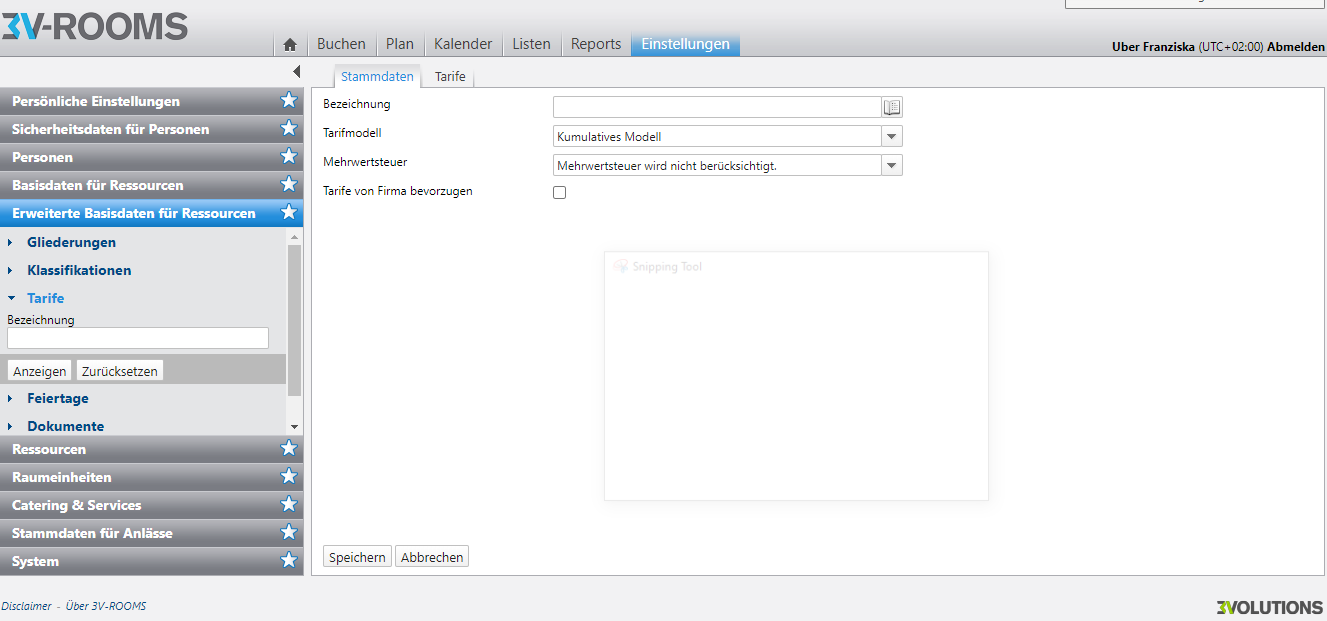
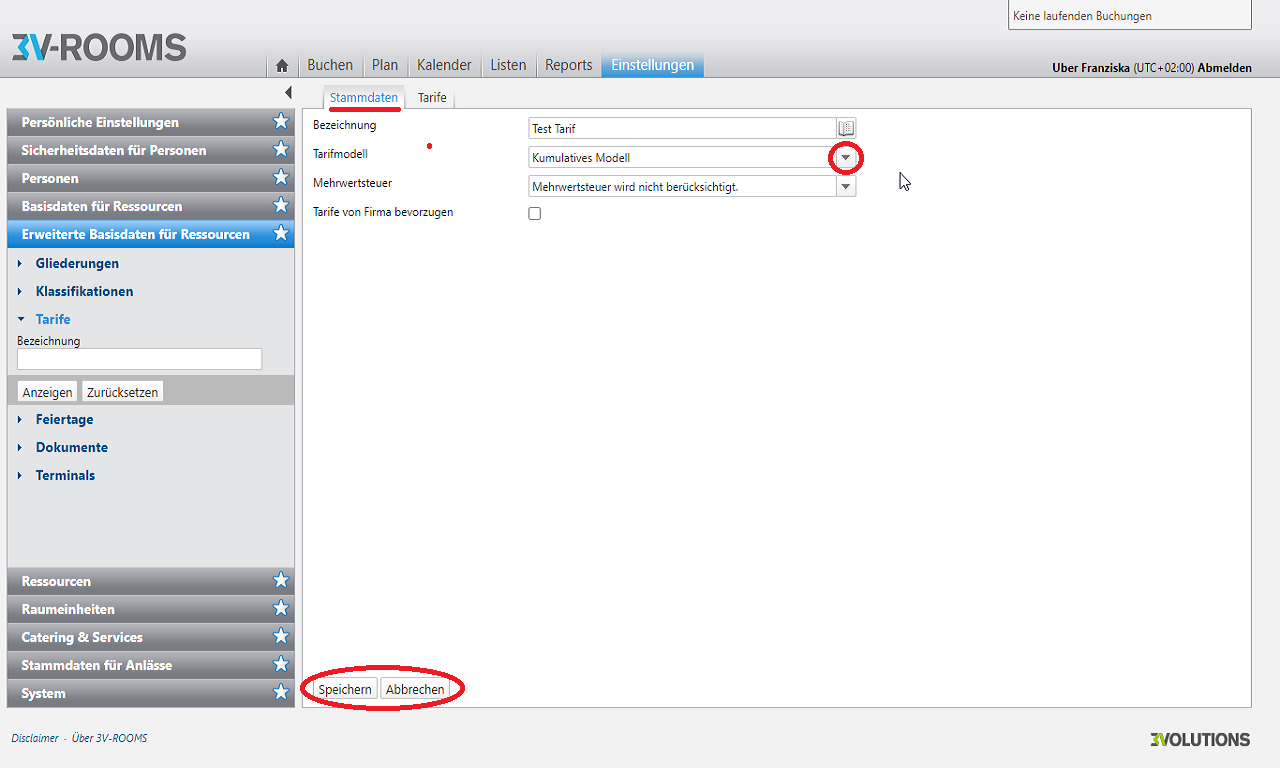
Tarife und Klassifikationen Screenshots neu und mit UC abgeglichen

Changed region(s): [[0.0, 0.0, 1.0, 1.0], [0.7812, 0.0, 0.9062, 0.0306]]

diff --git a/content/de/Einstellungen/ErweiterteBasisdatenfuerRessourcen/Tarife/_index.md b/content/de/Einstellungen/ErweiterteBasisdatenfuerRessourcen/Tarife/_index.md
@@ -3,19 +3,34 @@ title: "Tarife"
 linkTitle: "Tarife"
 weight: 3
 description: >
-  Im Bereich Tarife sehen und erstellen Sie Tarifkategorie-Listen. Ebenfalls können Sie neue Tarife erstellen und bearbeiten.   
+  Im Bereich Tarife sehen und erstellen Sie Tarifkategorie-Listen. Ebenfalls können Sie neue Tarife erstellen und bearbeiten. Sie verwalten Tarife (Kosten und Annullationsgebühren) zentral und ordnen sie einer Ressource zu.  
  
 
 
 ---
+## Ansicht: Tarife 
+Im linken Sidepanel finden Sie die Filterkriterien. Hier können Sie nach der Bezeichnung eines Tarifs suchen. Klicken Sie anschließend auf den Button "Anzeigen". (Abbildung) 
+
+Im rechten Feld sehen Sie die Tarifkategorie-Liste. Sollten keine Tarife eingetragen sein ist diese leer. Tragen Sie neue ein, löschen oder bearbeiten Sie bestehende. 
+
+{{< imgproc Tarife_Ansicht Resize "1280x" >}}
+Abbildung ta: Erstellen von Tarifkategorien
+{{< /imgproc >}}
+
+Generell können Sie zwischen drei Tarifmodellen wählen. Diese werden weiter unten beschrieben: 
+1. Pauschales Modell
+2. Kumultatives Modell 
+3. Zeitabhängiges Modell
+
 ## Tarif neu erstellen
-Tarifkategorien erstellen Sie über den untenstehenden Button "Neu" (Abbildung t). In dem Feld, welches sich öffnet legen Sie die Stammdaten sowie die Tarifoption für die jeweiliege Tarifkategorie fest (Abbildung ti).
+Tarifkategorien erstellen Sie über den untenstehenden Button "Neu" (Abbildung ta). In dem Feld, welches sich öffnet legen Sie die Stammdaten sowie die Tarifoption für die jeweiliege Tarifkategorie fest (Abbildung ti).
 
 Die geänderten oder neu eingetragenen Daten speichern Sie über den untenstehenden Button "Speichern" (Abbildung ti).
 
+Neu eingetragene Tarife sehen Sie anschließend in Liste (Abbildung tb). Sie können von hier aus den Tarif bearbeiten über das Stift Icon. Mit Aktivierung der Checkbox können Sie den tarif löschen. 
 
-{{< imgproc Tarife_erstellen Resize "1280x" >}}
-Abbildung t: Erstellen von Tarifkategorien
+{{< imgproc Tarife_hinzugefügt_in_Liste Resize "1280x" >}}
+Abbildung tb: Erstellen von Tarifkategorien
 {{< /imgproc >}}
 
 
@@ -34,27 +49,116 @@ Abbildung ti: Stammdaten des Tarifkategorien bearbeiten
 {{< /imgproc >}}
 
 ### Tarif der Tarifkategorie bearbeiten
-Die folgenden Daten legen Sie bei den Tarifen der Tarifkategorie über den untenstehenden Button "Neu" fest (Abbildung tv):
+Wenn Sie eine neue Tarifkategorie erstellen, sehen Sie in der Liste noch keine Tarife. Fügen Sie neue Tarifkategorien über den untenstehenden Button "Neu". (Abbildung tc)
+
+{{< imgproc Tarife_neue_Tarife_hinzufügen Resize "1280x" >}}
+Abbildung tc: Eine neue Tarifkategorie hinzufügen
+{{< /imgproc >}}
+
+Es öffnet sich ein Fenster, in welchem Sie die Daten der Tarife festlegen. 
+
+Die folgenden Daten legen Sie bei den Tarifen der Tarifkategorie fest (Abbildung tv):
 
 | Feld         | Funktion         | 
 | ------------- |-------------  | 
-| Bezeichnung        |  | 
-| Art   |     |  
-| Gültigkeit  |     |  
-| Aktivitätsstatus für die einzelnen Wochentage  |     |  
-| Dauer in Minuten  |     | 
-| Kosten Intern  |     | 
-| Kosten Extern  |     | 
-| Kosten Extern minimal  |     | 
-| Kosten Extern maximal  |     | 
-| Kosten Intern minimal  |     | 
-| Kosten Intern maximal  |     | 
+| Bezeichnung        | Geben Sie eine Bezeichnung für den Tarif ein (in der Sprache des angmeldeten Benutzers)  | 
+| Art   |  Wählen Sie mittels Drop-Down das Tarifmodell aus. Es stehen die Werte "Buchung" und "Annullation" zur Verfügung. Es wird also definiert ob es sich um einen Annullationspauschale handelt oder um eine Buchungspauschale. Bei Annullation sind die Werte Zeitrange und "Aktiviert am" nicht auszufüllen   |  
+| Annulation in %  | wird nur angezeigt, wenn in der Dropdown „Tarif Art“ eine Annullation selektiert wurde Validierung auf Ganzzahlen (nummerischer Wert).|  
+| Gültigkeit  | Datumpicker, über welchen die Laufzeit eines Tarifs selektiert wird.| 
+| Aktivitätsstatus für die einzelnen Wochentage  | Alle Wochentage werden in Form von Checkboxen und Zeitrange Textboxen aufgelistet. Durch Selektion kann definiert werden, dass an diesem Tag der Tarif gültig ist und zu welcher Zeit am Tag er gültig ist. |  
+| Dauer in Minuten  | Definiert das Kostenintervall - für welche Zeiteinheit wird der Tarif berechnet. Beispiel: wird 60 angegeben wird auf Stundenbasis abgerechnet. Bei Annullationen bezieht sich die Dauer in Minuten auf die Annullation vor Reservationstart. Erläuterung an einem Beispiel: 0 = Annullation zur Laufzeit der Reservation = 100% der Reservationskosten (100=Tarif, %-Checkbox selektiert) 60 = Annullation zwischen 0 und 60 Minuten vor Reservationsstart = 50% der Reservationskosten (50=Tarif, %-Checkbox selektiert) 1440 = Annullation zwischen 60 Minuten und einem Tag vor Reservationsstart = fix 100.00 Franken (100 = Tarif, %-Checkbox nicht selektiert)  | 
+| Firma  | Optionales Feld: Bleibt dieser Wert leer ist der Tarif für alle gültig. Wird auf dem Tarif eine Firma selektiert, ist dies ein Spezialtarif für genau diese Firma. Mit diesem Mechanismen werden die Fixpreise definiert. | 
+| Währung  | alle aktivierten Währungen. Standardwert = Währung der im Profil des angemeldeten gewählten Kultur.Die Anzahl der aktivierten Währungen ist abhängig von der Anzahl der zur Verfügung gestellten Kulturen.| 
+| Kosten Intern  | Tarif, welcher für alle Firmen ohne selektierte "Extern" Checkbox gültig ist Validierung auf nummerischer Wert.| 
+| Kosten Extern  | Tarif, welcher für alle Firmen MIT selektierte "Extern" Checkbox gültig ist Validierung auf nummerischer Wert. | 
+| Kosten Extern minimal  | Wenn Kumulatives Preismodell gewählt auf Tarifkategorie, erscheint das Textfeld für die minimalen Kosten.  | 
+| Kosten Extern maximal  | Wenn Kumulatives Preismodell gewählt auf Tarifkategorie, erscheint das Textfeld für die maximalen Kosten. | 
+| Kosten Intern minimal  | Wenn Kumulatives Preismodell gewählt auf Tarifkategorie, erscheint das Textfeld für die minimalen Kosten.   | 
+| Kosten Intern maximal  | Wenn Kumulatives Preismodell gewählt auf Tarifkategorie, erscheint das Textfeld für die maximalen Kosten. | 
+
 
 {{< imgproc Tarife_anlegen Resize "1280x" >}}
 Abbildung tv: Tarifeinzelheiten und Gültigkeit festlegen
 {{< /imgproc >}}
 
-## Tarife durchsuchen
-Im linken Menü finden Sie unter der Kategorie "Tarife" eine Suchfunktion mit dessen Hilfe Sie nach einem Tarif suchen können (Abbildung t). Sie können hierbei nach folgenden Kriterien suchen: 
-* Bezeichnung
+Speichern Sie die Tarifkategorie über den Button "Speichern". Die Liste aktualisiert sich automatisch und Sie sehen die neue Tarifkategorie (Abbildung tb).
 
+{{< imgproc Tarife_neu_angelegt_in_Liste Resize "1280x" >}}
+Abbildung tb: Neu angelegte Tarifkategorie in der Liste
+{{< /imgproc >}}
+
+## Erklärung Tarifmodelle mit Beispielen
+
+1. **Pauschales Modell**:
+Es wird der kleinst grössere Minuten-Tarif direkt verwendet.
+Beispiele:
+* 1: Tarife mit 1, 2, 4, 8 Stunden Dauer. Die Buchung beträgt 30 Minuten. -> Dann wird der Tarif mit einer "1 Stunde" Dauer genommen.
+* 2: Tarife mit 1, 2, 4, 8 Stunden Dauer. Die Buchung beträgt 3 Stunden. -> Dann wird der Tarif mit "4 Stunden" Dauer genommen.
+* 3: Tarife mit 1, 2, 4, 8 Stunden Dauer. Die Buchung beträgt 10 Stunden. -> Dann wird der Tarif mit "8 Stunden" Dauer genommen.
+
+2. **Kumulatives Modell**:
+Es wird der kleinst grössere Minuten-Tarif zusammenaddiert. Es werden dabei falls gesetzt minimale und maximale Werte berücksichtigt. Dies kann bedeuten: Pro Stunde 10 Franken, aber mindestens 50 Franken oder maximal 100 Franken.
+
+Beispiele: 
+
+* 1: Tarife mit 1, 2, 4, 8 Stunden. Reservation ist 1 Stunde. -> Dann wird der Tarif mit 1 Stunde Dauer genommen.
+* 2: Tarife mit 1, 2, 4, 8 Stunden. Reservation ist 2 Stunden. -> Dann wird der Tarif mit 2 Stunde Dauer genommen.
+* 3: Tarife mit 1, 2, 4, 8 Stunden. Reservation ist 6,5 Stunden. -> Dann wird der Tarif mit 4 Stunden und 2 Stunden genommen und dann der Tarif mit 1 Stunde am Schluss als kleinster "Ueberschuss" dazugezaehlt.
+
+3. **Zeitabhängig**:
+Beim zeitabhängigen Modell liegt ebenfalls die kumulative Berechnung zu Grunde. Bei diesen Modell darf für eine Firma immer nur ein Tarif zum entsprechenden Zeitpunkt gültig sein. d.h:
+
+Morgentarif 8.00 – 12.00Uhr, Nachmittagstarif 12.00 – 18.00Uhr für Firma A à funktioniert
+Morgentarif 8.00 – 12.30Uhr, Nachmittagstarif 12.00 – 18.00Uhr für Firma B à funktioniert NICHT
+Angebrochene Minuten werden IMMER voll verrechnet, nicht definierte Zeiten gelten als gratis und der Zeitintervall (55min) wird immer ab dem nächst gültigen Tarif gerechnet. Ausgangslage: Morgentarif 8.00 – 12.00Uhr (pro 55Minuten – CHF 30.-), Nachmittagstarif 12.00 – 18.00Uhr (pro 55Minuten – CHF 44.-)
+
+Beispiel: Firma bucht um 11.55Uhr für insgesamt zwei Intervalle (2x 55min) à Die Kosten betragen: CHF 74.---
+Tagespauschalen werden mit den Minimal/Maximalwerten pro Tarif gesetzt. Ausgangslage: Tagestarif 8.00 – 18.00Uhr für Firma A (Kosten minimal/maximal CHF 200.-)
+
+Beispiel: Firma bucht um 9.00Uhr für zwei Intervalle à Die Kosten betragen CHF 200.00
+
+### Tarife Berechnung im Buchungsprozess
+
+* Ist für eine Firma/OE ein Spezialtarif definiert wird auf dieser Tarif Basis berechnet
+* Sind zum einem Zeitpunkt der Reservation mehrere aktive Tarife vorhanden wird der neuste (Tarif mit dem aktuellsten Gültigkeitsdatum) verwendet.
+* Ist bei einer Ressource keine Tarifkategorie hinterlegt, wird kein Preis berechnet.
+* Ist zum Zeitpunkt der Reservation kein aktiver Tarif vorhanden werden keine Kosten verrechnet werden
+
+
+### Stornierungsregeln und Beispiele
+
+1. **Pauschalen** 
+
+Wird eine Buchung mit Pauschalen Stornierungskosten annulliert, werden alle Pauschalen (Raum, Equipment, Dienstleistungen) zusammengezählt und als Stornierungskosten gespeichert.
+
+Beispiel (hinterlegte Stornierungskosten in CHF):
+Raum: 50 CH
+Beamer: 5 CHF
+Flipchart: 5 CHF
+Pinwand: 5 CHF
+
+Umstuhlung: 7 CHF
+
+Angebotszone: 5 CHF (Sind Angebot aus verschiedenen Angebotszonen gebucht worden, werden die Angebotszonen Stornierungspauschalen zusammengezählt – aber immer nur 1x kalkuliert – egal wieviele Angebote einer Zone effektiv gebucht worden sind)
+4x Kaffee zu 2 CHF: 8 CHF
+4x Mineral zu 0 CHF: 0 CHF
+8x Sandwiches zu 3 CHF: 24 CHF
+= 109 CHF Stornierungsgebühr bei Stornierung des Raumes (Hauptbuchung)
+
+2. **Prozentualen**
+
+Wird eine Buchung mit prozentualen Stornierungskosten (nur auf Ressourcen möglich) annulliert werden die Prozentualen auf den jeweiligen Bruttokosten (hinterlegten Tarife) berechnet. Zuschläge und Rabatte werden ignoriert.
+
+Beispiel:
+Raum: Kosten= CHF100, Stornierung 50%
+Beamer: Kosten=CHF20, Stornierung 100% 
+Flipchart: Kosten=CHF5, Stornierung 0% 
+Pinwand: Kosten=CHF10, Stornierung Pauschal CHF5
+
+Umstuhlung: 7 CHF
+
+Angebotszone: 5 CHF (Sind Angebot aus verschiedenen Angebotszonen gebucht worden, werden die Angebotszonen Stornierungspauschalen zusammengezählt – aber immer nur 1x kallkuliert – egal wieviele Angebote einer Zone effektiv gebucht worden sind)
+4x Kaffee zu 2 CHF: 8 CHF
+4x Mineral zu 0 CHF: 0 CHF
+8x Sandwiches zu 3 CHF: 24 CHF
+= 119 CHF Stornierungsgebühr bei Stornierung des Raumes (Hauptbuchung)

diff --git a/content/de/Einstellungen/ErweiterteBasisdatenfuerRessourcen/Klassifikationen/_index.md b/content/de/Einstellungen/ErweiterteBasisdatenfuerRessourcen/Klassifikationen/_index.md
@@ -8,45 +8,117 @@ description: >
 
 
 ---
+## Ansicht: Klassifikationstypen 
+Im linken Bereich sehen Sie das Sidepanel mit Filterfunktionen. Klicken Sie auf den Button "Anzeigen" werden Ihnen alle Klassifikationen angezeigt. 
 
-## Klassifikationstypen erstellen und bearbeiten 
-Klassifikationstypen erstellen Sie über den untenstehenden Button "Klassifikationstyp erstellen" (Abbildung k).In dem Feld, welches sich öffnet legen Sie die Stammdaten, Ressourcen und Gruppen für den jeweiligen Klassifikationstyp fest (Abbildung ki).
+Im rechten Feld sehen Sie die Klassifikationstypliste. Die Baumstruktur ist zweistufig. Je nachdem an welche Stelle im Baum navigiert wird, kann auf den jeweiligen Bereichen mehr oder weniger Aktionen durchführen (auch auf Grund der Anzahl der angezeigten Icons ersichtlich). (Abbildung k)
 
-Die geänderten oder neu eingetragenen Daten speichern Sie über den untenstehenden Button "Speichern" (Abbildung gi).
+Es wird zwischen zwei Strukturen unterschieden:
+1. Übergeordneter Klassifikationstyp 
+2. Untergeordnete Buchungsklassifikation
 
-{{< imgproc Klassifikationen_erstellen Resize "1280x" >}}
-Abbildung k: Erstellen eines neuen Klassifikationstypen
+{{< imgproc Klassifikationen_Ansicht Resize "1280x" >}}
+Abbildung k: Ansicht im Reiter Klassifikationen
 {{< /imgproc >}}
 
-{{< imgproc Klassifikationen_Stammdaten_bearbeiten Resize "1280x" >}}
-Abbildung ki: Stammdaten des Klassifikationstypen bearbeiten
+### Bedeutung Icons 
+Klicken Sie auf den Namen eines Klassifikationstypen im Baum, erscheinen neben dem Namen eine Toolleiste mit Symbolen. Mithilfe dieser Symbole können Sie folgende Aktionen durchführen (Abbildung k): 
+
+* Plus Zeichen: neue untergeordnete Buchungsklassifikation erstellen. Das Plus Zeichen sehen Sie nur bei bei den übergeordneten Klassifikationstypen
+* Auge: Sehen Sie sich die erfasstem Stammdaten und die Historie der Klassifikationen an (Abbildung ka) 
+* Stift: Bearbeiten Sie eine bestehende Klassifikation
+* Papierkorb: Löschen Sie eine Klassifikation
+
+{{< imgproc Klassifikationen_Daten_ansehen Resize "1280x" >}}
+Abbildung ka: Ansehen der gespeicherten Daten einer Klassifikation über das Icon "Auge"
+{{< /imgproc >}}
+
+**Hinweis zum Löschen einer Klassifikation**: 
+Klicken Sie auf Löschen erscheint ein Warnhinweis. Bei erfolgreicher Löschung erscheint Bestätigungsmeldung im Actionpanel oben rechts. Die Baumstruktur aktualisiert sich automatisch.
+Löschregeln:
+Das Löschen eines Klassikfikationstyps ist nur möglich, wenn keine Ressource mehr verknüpft und keine anghängten Klassifikationen mehr vorhanden sind. Ansonsten sehen Sie eine Warnmeldung im Actionpanel.
+Das Löschen  einer Klassifikation nur möglich, wenn keine Verbindung mehr zu einer Buchung vorhanden ist. Ansonsten sehen Sie eine Warnmeldung im Actionpanel.
+
+## Übergeordneten Klassifikationstyp erstellen 
+Einen übergeorneten Klassifikationstypen erstellen Sie über den untenstehenden Button "Klassifikationstyp erstellen" (Abbildung k). 
+In dem Feld, welches sich öffnet legen Sie die Stammdaten, Ressourcen und Gruppen für den jeweiligen Klassifikationstyp fest (Abbildung ki).
+
+Die geänderten oder neu eingetragenen Daten speichern Sie über den untenstehenden Button "Speichern".
+
+Der Baum in der Klassifikationsliste aktualisiert sich automatisch und Sie sehen Ihren neuen Klassifikationstyp ind er Übersicht (Abbildung kx).
+
+{{< imgproc Klassifikationen_neuer_Typ_in_Baum Resize "1280x" >}}
+Abbildung kx: Aktualisierter Baum mit neuem Klassifikationstyp
 {{< /imgproc >}}
 
 ### Stammdaten des Klassifikationstypes bearbeiten
+Tragen Sie die Stammdaten des neuen Klassifikationstyps ein.
+
+{{< imgproc Klassifikationen_neuen_Klassifikationtyp_Stammdaten Resize "1280x" >}}
+Abbildung ki: Stammdaten eines neuen Klassifikationstyps eintragen
+{{< /imgproc >}}
+
 Die folgenden Stammdaten können Sie ändern und bearbeiten: 
 
 | Feld         | Funktion         | 
 | ------------- |-------------  | 
-| Bezeichnung        | Die Bezeichnung des Klassifikationstypen festlegen | 
+| Bezeichnung        | Die Bezeichnung des Klassifikationstypen festlegen. DIe Erfassung muss Mehrsprachig erfolgen. | 
 | Beschreibung       | Die Funktion des Klassifikationstypen festlegen |
 | Code       |  |
-| Ressourcenart   | Die Ressourcenart über "drop-down" auswählen (Abbildung ki)    |  
-| Mehrfachauswahl erlaubt  | Auswählen, wenn dieses zutreffend ist    |  
+| Ressourcenart   | Die Ressourcenart über "drop-down" auswählen (Abbildung ki). Es können mehrere Ressourcenarten (Sitzungszimmer, Equipment, etc.) ausgewählt werden, womit definiert wird, bei welchen Ressourcenarten der Buchungsklassifikationstyp im Reservationsdetail zur Verfügung steht. Es sind nur diejenigen Ressourcenarten wählbar, auf denen das entsprechendes Funktionsrecht vorhanden ist. |  
+| Mehrfachauswahl erlaubt  | Auswählen, wenn dieses zutreffend ist. Wird im Kapitel Buchen dargestellt als Multiselektor für Mehrfachselektion oder als Dropdown zur Einzelselektion. |  
 | Mussfeld  |      |  
-| In Listen sichtbar    | Auswählen, wenn der Klassifikationstyp in Listen erscheinen soll  |  
+| In Listen sichtbar    | Auswählen, wenn der Klassifikationstyp in Listen erscheinen soll. Die Checkbox „sichtbar in Listen“ definiert, ob der Klassifikationstyp auch als Filterkriterium in den Listen sichtbar ist  (Sidepanel)  |  
 | In Outlook sichtbar   | Auswählen, wenn der Klassifikationstyp in Outlook erscheinen soll  |  
-| Anlasstyp   |  | 
+| Anlasstyp   | Multiselektionsmöglichkeit für Anlasstyp. Wird ein oder mehrere Anlasstypen selektiert, werden die Buchungsklassifikationen bei Auswahl des entsprechenden Anlasstyps auch zur Verfügung gestellt. Mehr zu  [Anlasstypen](/einstellungen/stammdatenfueranlaesse/anlasstypen/) | 
 
 ### Ressourcen des Klassifikationstypes bearbeiten
-Legen Sie die zugehörige Ressource des Klassifikationstypes fest, indem Sie auf den untenstehenden Button "Ressource hinzufügen" klicken. Es erscheinen Ihre eingetragenen Ressourcen, die Sie über ein Häckchen hinzufügen. 
+Legen Sie die zugehörige Ressource des Klassifikationstypes fest, indem Sie auf den untenstehenden Button "Ressource hinzufügen" klicken. Es erscheinen Ihre eingetragenen Ressourcen in Listenform, die Sie über das Aktivieren der Checkbox auswählen. (Abbildung kb)
 
-{{< imgproc Klassifikationen_Ressource Resize "1280x" >}}
-Abbildung kx: Ressourcen des Klassifikationstypen bearbeiten
+Über den Button "hinzufügen" fügen Sie die ausgewählten Ressourcen zur Liste hinzu.
+
+{{< imgproc Klassifikationen_neuen_Klassifikationtyp_Ressource Resize "1280x" >}}
+Abbildung kb: Ressourcen zum Klassifikationstypen hinzufügen
+{{< /imgproc >}}
+
+Die Liste aktualisiert sich automatisch und Sie sehen die Ressourcen (Abbildung kc). Die hinzugefügten Ressourcen können Sie wieder bearbeiten über das Stift Icon oder löschen. 
+
+{{< imgproc Klassifikationen_Ressourcen_in_Liste Resize "1280x" >}}
+Abbildung kc: Hinzugefügte Ressourcen in der Liste 
 {{< /imgproc >}}
 
 ### Gruppe des Klassifikationstypes bearbeiten
-Legen Sie die zugehörige Gruppe des Klassifikationstypes fest, indem Sie auf den untenstehenden Button "Gruppe hinzufügen" klicken. Es erscheinen Ihre eingetragenen Gruppen. 
+Legen Sie die zugehörige Gruppe des Klassifikationstypes fest, indem Sie auf den untenstehenden Button "Gruppe hinzufügen" klicken. Es öffnet sich ein Feld mit den zur Verfügung stehenden Gruppen. Wählen Sie eine oder mehrere Gruppen über die Checkbox aus. (Abbildung kd)
 
-{{< imgproc Klassifikationen_Gruppe Resize "1280x" >}}
-Abbildung kx: Gruppen des Klassifikationstypen bearbeiten
+{{< imgproc Klassifikationen_neuen_Klassifikationtyp_Gruppe Resize "1280x" >}}
+Abbildung kd: Gruppen des Klassifikationstypen bearbeiten
+{{< /imgproc >}}
+
+Klicken Sie auf den untenstehenden Button "hinzufügen" und die Liste aktualisiert sich automatisch. Sie sehen die ausgewählten Gruppen nun in der Liste (Abbildung ke). Sie können die Gruppen dort auch wieder löschen oder bearbeiten über das Stift Icon.
+
+{{< imgproc Klassifikationen_Gruppe_in_Liste Resize "1280x" >}}
+Abbildung ke: Hinzugefügte Gruppe in der Liste 
+{{< /imgproc >}}
+
+## Untergeordnete Buchungsklassifikation erstellen
+Klicken Sie auf das **Plus Zeichen** im übergeordnetem Klassifikationstyp, können Sie eine untergeordnete Buchungsklassifikation erstellen. Es öffnet sich ein Fenster, in welchem Sie die Stammdaten bearbeiten können. (Abbildung kf)
+
+Folgende Stammdaten können Sie eintragen: 
+
+| Feld         | Funktion         | 
+| ------------- |-------------  | 
+| Bezeichnung   | Die Bezeichnung des Klassifikationstypen festlegen. DIe Erfassung muss Mehrsprachig erfolgen. | 
+| Sortierung  | Die Reihenfolge der Buchungsklassifikationen innerhalb eines Klassifkationstyps wird durch das Feld „Sortierung“ bestimmt (Dargestellt sowohl in der Baumstruktur, wie auch im Sidepanel und Detailreservation in Form einer Dropdown). |
+| Farbe     | Farben kann selektiert werden. Diese wird dann im Kalender visualisiert.  |
+
+**Hinweis zur Farbauswahl**: Die Farbe speichern Sie über das Farbtopfzeichen unten rechts. (Abbildung kf)
+
+{{< imgproc Klassifikationen_neue_Buchungsklassifikation Resize "1280x" >}}
+Abbildung kf: Neue Buchungsklassifikation erstellen 
+{{< /imgproc >}}
+
+Speichern Sie die neue Buchungsklassifikation mit dem Button "Speichern". Der Baum aktualisiert sich automatisch. (Abbildung kg)
+
+{{< imgproc Klassifikationen_neue_buchungsklassifikation_im_Baum Resize "1280x" >}}
+Abbildung kg: Neue Buchungsklassifikation im Baum 
 {{< /imgproc >}}
